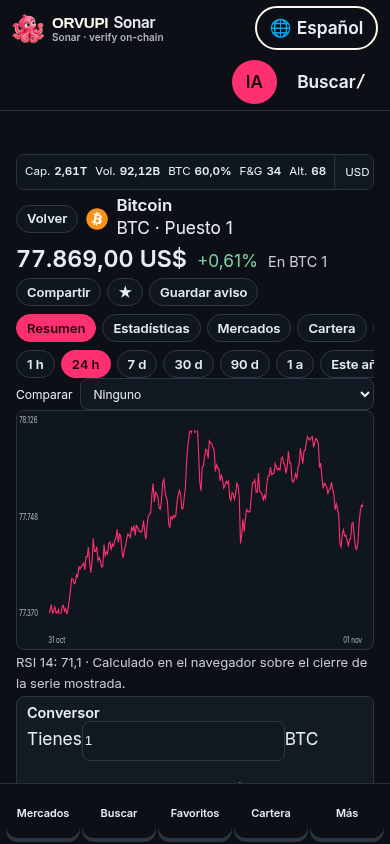
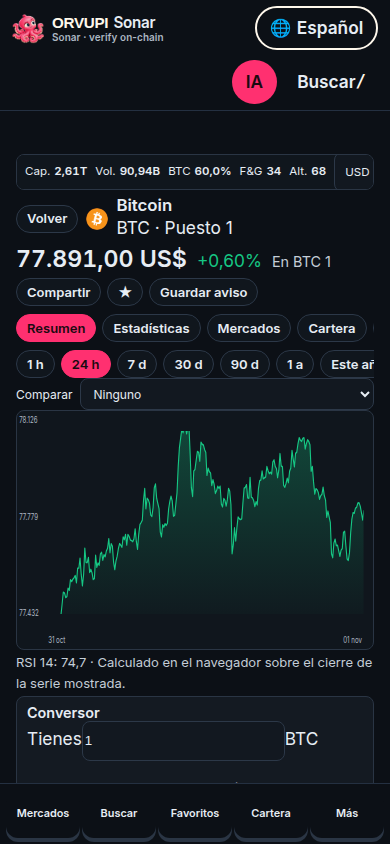
Sonar: gráficas verdes al subir y rojas al bajar
El color de cada serie sale del primer y del último valor del tramo visible. El rosa queda en los controles de la marca.

diff --git a/web/v2/assets/sonar.css b/web/v2/assets/sonar.css
@@ -69,12 +69,12 @@ body.verify-app footer.or-footer .sn-attrib a { display: block; color: #e7edf4; 
 .sn-tab[aria-selected="true"], .sn-pill.on, .sn-btn.on, .sn-star.on, .sn-dock button[aria-current="page"] {
   background: #ff3070; color: #1a0a10; border-color: #ff3070;
 }
-.sn-up { color: #7dcea0; }
-.sn-down { color: #f0a0b0; }
+.sn-up { color: #16c784; }
+.sn-down { color: #ea3943; }
 .sn-upflash { animation: sn-up 600ms ease; }
 .sn-downflash { animation: sn-down 600ms ease; }
-@keyframes sn-up { from { background: color-mix(in srgb, #7dcea0 25%, transparent); } to { background: transparent; } }
-@keyframes sn-down { from { background: color-mix(in srgb, #ff3070 25%, transparent); } to { background: transparent; } }
+@keyframes sn-up { from { background: color-mix(in srgb, #16c784 25%, transparent); } to { background: transparent; } }
+@keyframes sn-down { from { background: color-mix(in srgb, #ea3943 25%, transparent); } to { background: transparent; } }
 @media (prefers-reduced-motion: reduce) {
   .sn-upflash, .sn-downflash, .sn-skel span { animation: none; }
 }
@@ -126,6 +126,7 @@ body.verify-app footer.or-footer .sn-attrib a { display: block; color: #e7edf4; 
 .sn-coinhead { display: flex; flex-wrap: wrap; gap: 10px; align-items: center; }
 .sn-coinpx { display: flex; flex-direction: column; }
 .sn-chart { min-height: 220px; height: 320px; background: #10161d; border: 1px solid #2a3544; border-radius: 8px; overflow: hidden; }
+.sn-chart.sn-mini { height: 160px; min-height: 140px; }
 .sn-chart-svg, .sn-chart-canvas { width: 100%; height: 100%; display: block; }
 .sn-stats-grid, .sn-kpis { display: grid; grid-template-columns: repeat(auto-fit, minmax(128px, 1fr)); gap: 6px; }
 .sn-field { display: flex; flex-direction: column; gap: 2px; background: #10161d; border-radius: 8px; padding: 6px 8px; }
@@ -188,8 +189,8 @@ body.sonar-market,
 body.sonar-market :where(th, td, a, h1, h2, h3, h4, p, li, label, code, small, strong, span, button, summary) {
   color: #e7edf4;
 }
-body.sonar-market .sn-up { color: #7dcea0 !important; }
-body.sonar-market .sn-down { color: #f0a0b0 !important; }
+body.sonar-market .sn-up { color: #16c784 !important; }
+body.sonar-market .sn-down { color: #ea3943 !important; }
 body.sonar-market .sn-tab[aria-selected="true"],
 body.sonar-market .sn-pill.on,
 body.sonar-market .sn-btn.on,

diff --git a/web/v2/assets/verify-app.css b/web/v2/assets/verify-app.css
@@ -383,8 +383,8 @@ body.verify-app .vf-coin {
 body.verify-app .vf-coin strong,
 body.verify-app .vf-coin span { white-space: nowrap; }
 body.verify-app .vf-coin strong { font-size: 0.95rem; }
-body.verify-app .vf-up { color: #7dcea0; }
-body.verify-app .vf-down { color: #f0a0b0; }
+body.verify-app .vf-up { color: #16c784; }
+body.verify-app .vf-down { color: #ea3943; }
 body.verify-app .vf-meta,
 body.verify-app .vf-live { color: #aeb8c4; }
 body.verify-app .vf-table th,
